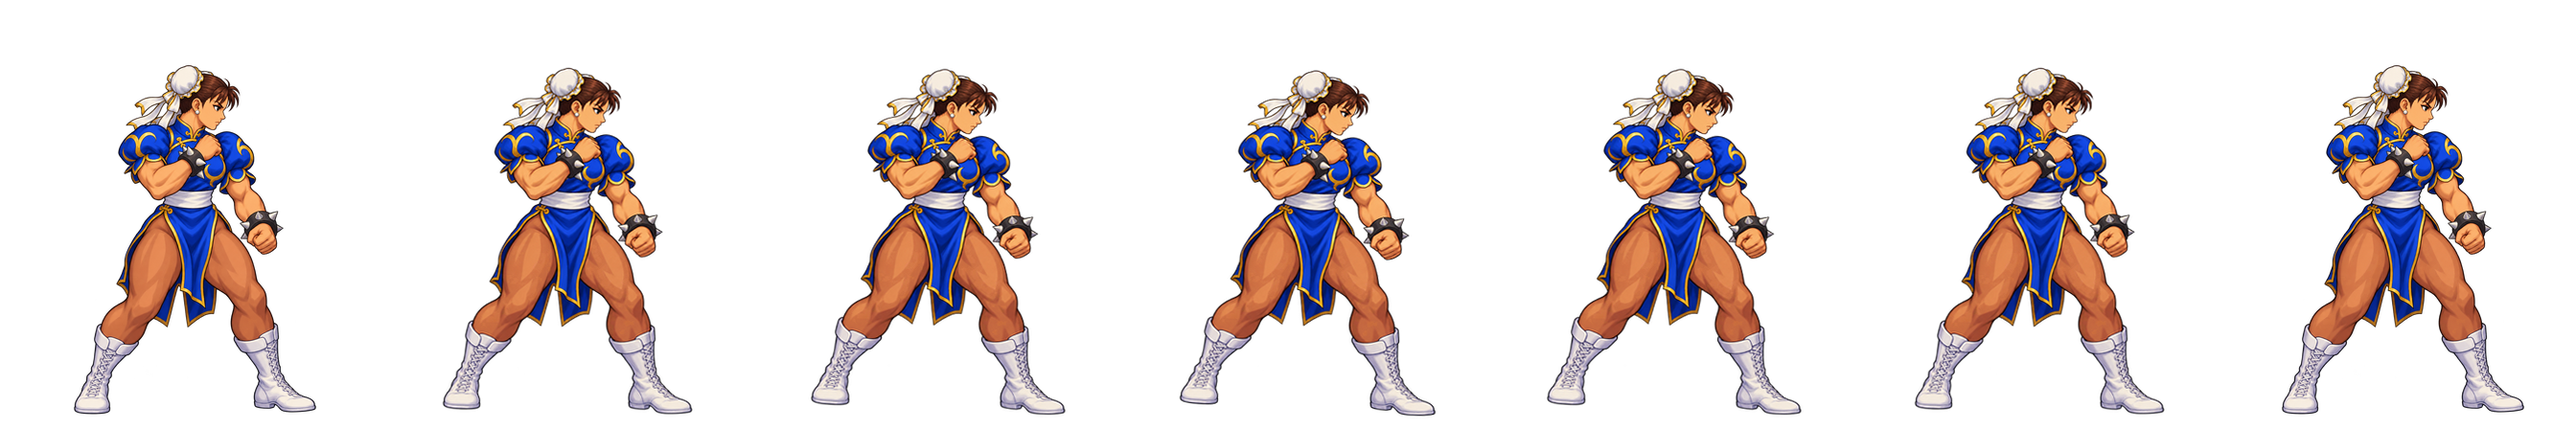
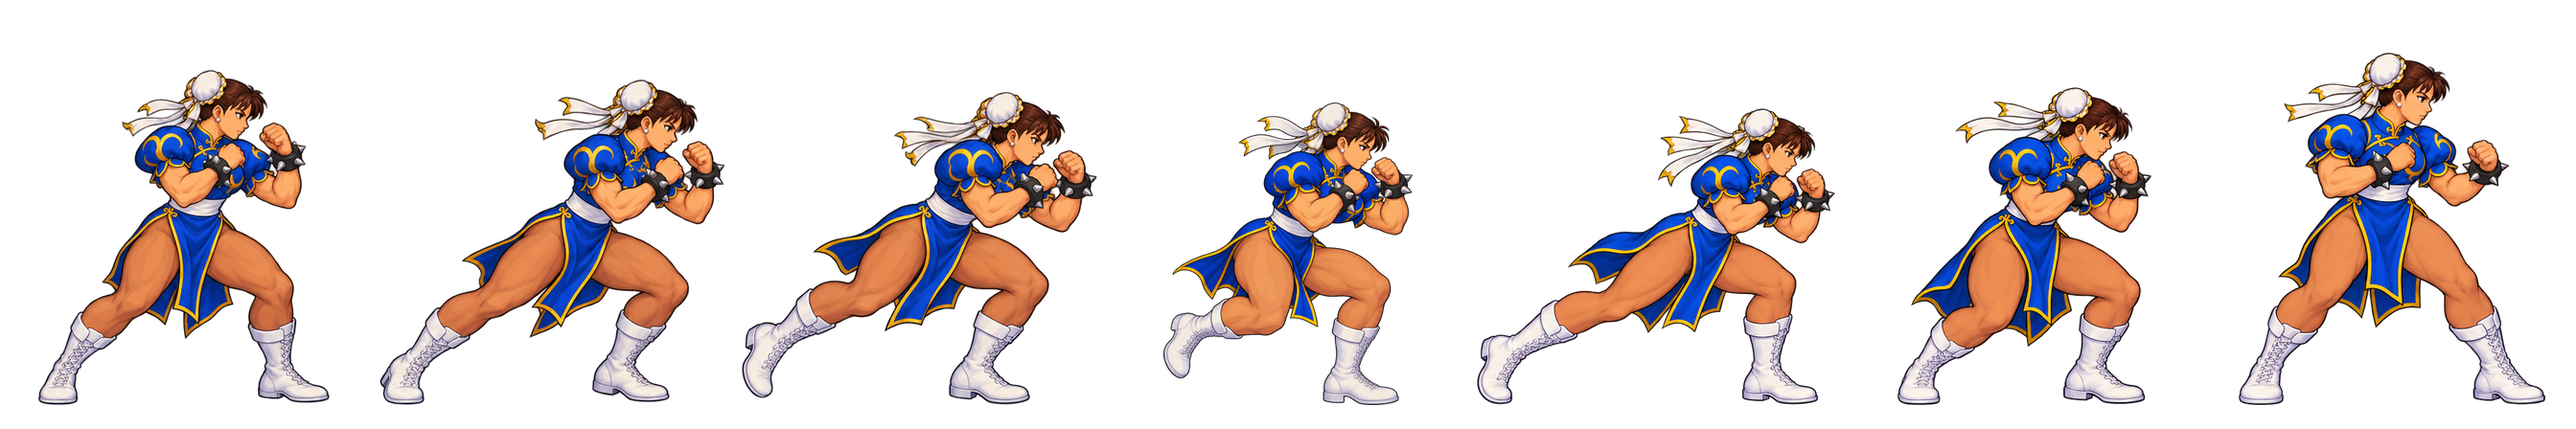
Add Chun-Li authored dash with launch drive and recovery

Changed region(s): [[0.4375, 0.125, 1.0, 0.9688], [0.0, 0.1562, 0.4375, 0.9688]]

diff --git a/src/render/AnimationSequenceLibrary.ts b/src/render/AnimationSequenceLibrary.ts
@@ -89,7 +89,7 @@ const CHUNLI: readonly AnimationSequence[] = [
   { id:'CHUNLI_IDLE_HQ', characterId:'CHUNLI', kind:'idle', asset:'/art/animation-hq/chunli/idle.webp', frameCount:6, frameWidth:384, frameHeight:448, fps:8.0, loop:true, timing:'ease-in', footLock:true, enabled:false, renderMode:'full', poseAuthored:false, quality:'hq', source:'approved-hq-pilot' },
   { id:'CHUNLI_WALK_HQ', characterId:'CHUNLI', kind:'walk', asset:'/art/animation-hq/chunli/walk.webp', frameCount:12, frameWidth:384, frameHeight:448, fps:13.8, loop:true, timing:'linear', footLock:true, enabled:true, renderMode:'full', poseAuthored:true, quality:'hq', source:'authored-hq' },
   { id:'CHUNLI_WALK_BACK_HQ', characterId:'CHUNLI', kind:'walk-back', asset:'/art/animation-hq/chunli/walk-back.webp', frameCount:10, frameWidth:384, frameHeight:448, fps:11.8, loop:true, timing:'linear', footLock:true, enabled:true, renderMode:'full', poseAuthored:true, quality:'hq', source:'authored-hq' },
-  { id:'CHUNLI_DASH_HQ', characterId:'CHUNLI', kind:'dash', asset:'/art/animation-hq/chunli/dash.webp', frameCount:7, frameWidth:384, frameHeight:448, fps:19, loop:false, timing:'ease-out', footLock:false, enabled:false, renderMode:'full', poseAuthored:false, quality:'hq', source:'approved-hq-pilot' },
+  { id:'CHUNLI_DASH_HQ', characterId:'CHUNLI', kind:'dash', asset:'/art/animation-hq/chunli/dash.webp', frameCount:7, frameWidth:384, frameHeight:448, fps:19, loop:false, timing:'ease-out', footLock:false, enabled:true, renderMode:'full', poseAuthored:true, quality:'hq', source:'authored-hq' },
   { id:'CHUNLI_JUMP_HQ', characterId:'CHUNLI', kind:'jump', asset:'/art/animation-hq/chunli/jump.webp', frameCount:8, frameWidth:384, frameHeight:448, fps:13.5, loop:false, timing:'ease-out', footLock:false, enabled:false, renderMode:'full', poseAuthored:false, quality:'hq', source:'approved-hq-pilot' },
   { id:'CHUNLI_LANDING_HQ', characterId:'CHUNLI', kind:'landing', asset:'/art/animation-hq/chunli/landing.webp', frameCount:6, frameWidth:384, frameHeight:448, fps:19, loop:false, timing:'ease-out', footLock:true, enabled:false, renderMode:'full', poseAuthored:false, quality:'hq', source:'approved-hq-pilot' },
   { id:'CHUNLI_HIT_HQ', characterId:'CHUNLI', kind:'hit', asset:'/art/animation-hq/chunli/hit.webp', frameCount:8, frameWidth:384, frameHeight:448, fps:19, loop:false, timing:'ease-out', footLock:false, enabled:false, renderMode:'full', poseAuthored:false, quality:'hq', source:'approved-hq-pilot' },

diff --git a/src/core/AssetManager.ts b/src/core/AssetManager.ts
@@ -2,7 +2,7 @@ import { runtimeQuality } from './RuntimeQuality.js';
 
 export type AssetGroupName = 'app-shell' | 'character-hd' | 'character-hq' | 'stage-1' | 'stage-2' | 'stage-3' | 'stage-4' | 'stage-5' | 'ending';
 
-export const GAME_CACHE_NAME = 'game-cache-v071';
+export const GAME_CACHE_NAME = 'game-cache-v072';
 
 export const ASSET_GROUPS: Record<AssetGroupName, readonly string[]> = {
   'app-shell': [

diff --git a/public/sw.js b/public/sw.js
@@ -1,4 +1,4 @@
-const CACHE_VERSION = 'game-cache-v071';
+const CACHE_VERSION = 'game-cache-v072';
 const GAME_CACHE_PREFIX = 'game-cache-v';
 const UPDATE_META_CACHE = 'ssc-update-meta';
 const ROLLBACK_MARKER = '/__ssc_rollback_target__';

diff --git a/scripts/install-authored-chunli-walk.py b/scripts/install-authored-chunli-walk.py
@@ -1,4 +1,4 @@
-"""Preview/install Chun-Li authored walking sequences using the existing motion gates."""
+"""Preview/install Chun-Li authored movement using the existing motion gates."""
 from argparse import ArgumentParser
 from pathlib import Path
 import hashlib
@@ -20,7 +20,7 @@ def load_module(name, filename):
 
 def main():
     parser = ArgumentParser(description=__doc__)
-    parser.add_argument('kind', nargs='?', default='walk', choices=['walk', 'walk-back'])
+    parser.add_argument('kind', nargs='?', default='walk', choices=['walk', 'walk-back', 'dash'])
     parser.add_argument('--install', action='store_true')
     parser.add_argument('--runtime', action='store_true', help='Verify the installed runtime strip without modifying files.')
     args = parser.parse_args()
@@ -53,11 +53,16 @@ def main():
     pose = motion.pose_qa(frames, kind)
     semantic = motion.semantic_qa(kind, frames, pose)
     master = handoff.alpha_mask(Image.open(ROOT / 'public/art/combat-sprites-hq/chunli.webp'))
-    start = handoff.compare_motion_bridge(master, handoff.alpha_mask(frames[0]), handoff.WALK_BACK_BASE_LIMITS)
-    end = handoff.compare_motion_bridge(handoff.alpha_mask(frames[-1]), master, handoff.WALK_BACK_BASE_LIMITS)
+    start_limits = handoff.DASH_START_LIMITS if kind == 'dash' else handoff.WALK_BACK_BASE_LIMITS
+    end_limits = handoff.DASH_END_LIMITS if kind == 'dash' else handoff.WALK_BACK_BASE_LIMITS
+    start = handoff.compare_motion_bridge(master, handoff.alpha_mask(frames[0]), start_limits)
+    end = handoff.compare_motion_bridge(handoff.alpha_mask(frames[-1]), master, end_limits)
+    # Preserve the walking report names for existing consumers.
+    start_key = 'baseToDash' if kind == 'dash' else 'baseToWalk'
+    end_key = 'dashToBase' if kind == 'dash' else 'walkToBase'
     passed = pose['poseAuthoredPass'] and semantic['semanticQaPass'] and start['pass'] and end['pass']
     report = {'character':'CHUNLI', 'sequence':kind, 'source':source.relative_to(ROOT).as_posix(),
-              'poseQa':pose, 'semanticQa':semantic, 'baseToWalk':start, 'walkToBase':end, 'pass':passed}
+              'poseQa':pose, 'semanticQa':semantic, start_key:start, end_key:end, 'pass':passed}
     if not args.runtime:
         candidate = ROOT / f'art-source/chunli/authored-candidates/{kind}.webp'
         candidate.parent.mkdir(parents=True, exist_ok=True)
@@ -83,7 +88,7 @@ def main():
         record.update({'bytes':len(data), 'sha256':hashlib.sha256(data).hexdigest().upper(),
                        'enabled':True, 'poseAuthored':True, 'stagingOnly':False,
                        'authoredSource':report['source'], 'poseQa':pose, 'semanticQa':semantic,
-                       'handoffQa':{'baseToWalk':start, 'walkToBase':end}})
+                       'handoffQa':{start_key:start, end_key:end}})
         manifest['pipeline'] = 'rc40-chunli-authored-gated-v1'
         manifest['enabledFrameTotal'] = sum(r['frames'] for r in manifest['records'] if r['enabled'])
         manifest['fullFrameTotal'] = sum(r['frames'] for r in manifest['records'] if r['enabled'] and r['renderMode']=='full')

diff --git a/art-source/chunli/inbox/dash/README.md b/art-source/chunli/inbox/dash/README.md
@@ -1,0 +1,12 @@
+# Chun-Li authored dash (7 frames)
+
+The built-in image generation tool drew these poses using the approved Chun-Li master as the character reference. The motion progresses from guarded launch through forward drive to planted braking and recovery. Frames `01.png` through `07.png` are full-body source poses with transparent alpha.
+
+The existing Chun-Li movement installer checks authored pose changes, dash semantics, and transitions to/from the master before enabling the strip. It uses the existing dash transition limits without relaxing the quality gates.
+
+```sh
+python3 scripts/install-authored-chunli-walk.py dash --install
+python3 scripts/install-authored-chunli-walk.py dash --runtime
+```
+
+Walk and walk-back commands remain compatible. Idle, jump, landing, and hit are still staging candidates.

diff --git a/art-source/chunli/inbox/walk/README.md b/art-source/chunli/inbox/walk/README.md
@@ -4,4 +4,4 @@
 
 Run `npm run ingest:chunli:walk` to preview, gate, and install the source frames. Run `npm run verify:chunli-walk` to check the installed runtime strip. Both reuse the existing pose and walk semantic checks; installation also checks transitions to and from the approved master. The preview and QA report are at the repository root.
 
-Forward and backward walking are enabled. Other Chun-Li movement strips remain staging candidates until their authored motion passes quality checks. The shared installer accepts `walk-back` for the 10-frame guarded retreat.
+Forward walking, backward walking, and dash are enabled. Idle, jump, landing, and hit remain staging candidates. The shared installer accepts `walk-back` for the 10-frame guarded retreat and `dash` for the 7-frame launch, drive, and recovery.

diff --git a/art-source/chunli/inbox/walk-back/README.md b/art-source/chunli/inbox/walk-back/README.md
@@ -9,4 +9,4 @@ python3 scripts/install-authored-chunli-walk.py walk-back --install
 python3 scripts/install-authored-chunli-walk.py walk-back --runtime
 ```
 
-The existing forward-walk commands remain supported without a positional argument. Other Chun-Li movement sequences are still staging candidates.
+The existing forward-walk commands remain supported without a positional argument. Dash is also enabled through the shared installer. Idle, jump, landing, and hit are still staging candidates.
